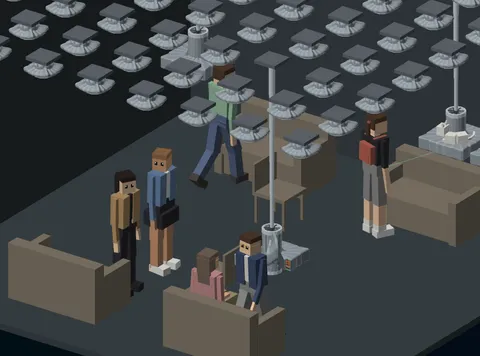
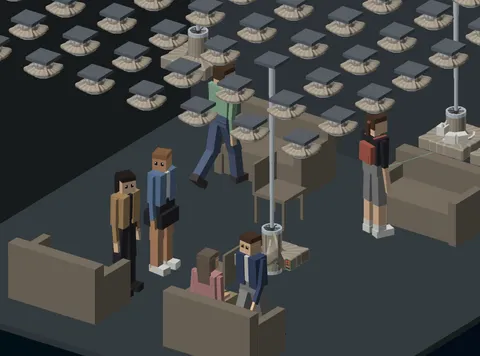
Lab 2-15 蒙皮改暖灰
作者看过钛灰后要暖色。试了香槟、暖灰、古铜、砂岩四档：古铜和香槟饱和度一高就读成木头，
砂岩太亮太抢眼，取暖灰往香槟挪一点（哑光金属感），接缝片仍暗约一成。
/lab 2-15 规格表措辞同步，案例页 2-15 两组分镜重截。

Claude-Session: https://claude.ai/code/session_01RPazAeFLw4UBaBZrTgFsBT

diff --git a/app/(site)/lab/page.tsx b/app/(site)/lab/page.tsx
@@ -449,7 +449,7 @@ export default function LabPage() {
             ['Driver', 'CohabitSim with the case study configuration and square units (the case study chart was run with round units): walk / stand / sit rule · only the bands in the way retract · visitors with bodies and parties · cats can use the floor · cat costs calibrated to Mertens & Turner 1988 · lead to the unit in front of the seat'],
             ['Band shapes', 'Three engine runs (face, edge and corner depth), each baked to 48 forming, 36 retraction and 24 giving-way keyframes; each band picks its frame from its unit’s degree and how far it has retracted. Switching from forming to retraction frames can show a small jump. A band giving way to a person follows the engine’s own straightening retraction from its formed shape and ends flat on the post; its spare cloth is taken up into the top clamp, so all twenty bands of a unit stay attached at the same top and bottom. A semi-transparent membrane spans each pair of neighbouring bands. The padding of each band sits above the box, so below the formed platform only about 0.12 m of band runs down to the bottom end (0.33 m before 2026-10-30), and the band is shortened to 169 nodes (from 202), so the whole unit is about 30% shorter when formed; the box itself is unchanged'],
             ['Mechanism', 'A modelling assumption read from the Blender model, still to be confirmed: a top clamp ring holds the first 5 nodes of all twenty bands and hangs from the ceiling on a five-stage telescopic aluminium hanger (84 mm across at the top, 52 mm at the bottom); a bottom clamp ring holds the last 5 nodes, with a rubber bumper ring underneath; a four-stage telescopic core joins the hubs of the two clamp rings, so as the unit forms the hanger lengthens by as much as the core shortens. Each bond is two pads on the cloth with a locking strut between them, drawn orange once it is fastened (the colour of the bond lines in the other labs). The motor box above the ceiling is not drawn'],
-            ['Skin', 'On by default, can be switched off: an opaque outer skin in matte titanium grey wraps each unit. One panel covers each band and one joint panel spans each gap between neighbouring bands, so the twenty bands read as one closed shell; both ends tuck under the clamp rings. Where bands give way to a person, the joint panels at the edge of the opening part and the inside shows through. With the skin off, the bands, keys and the translucent membranes between bands are shown. How the skin is divided and how its joints open is a modelling assumption'],
+            ['Skin', 'On by default, can be switched off: an opaque outer skin in a matte warm grey wraps each unit. One panel covers each band and one joint panel spans each gap between neighbouring bands, so the twenty bands read as one closed shell; both ends tuck under the clamp rings. Where bands give way to a person, the joint panels at the edge of the opening part and the inside shows through. With the skin off, the bands, keys and the translucent membranes between bands are shown. How the skin is divided and how its joints open is a modelling assumption'],
             ['Scale', 'The Lab 2-7 square ring at its flat setting, scaled by the pitch ratio (0.67) and then by 1.54, so the plan’s platform circle is the square’s incircle. A unit of this size has not been built or solved'],
             ['Figures', 'Blocky 1.70 m people (joint proportions from Drillis & Contini) who walk, stand, sit and turn their heads, dressed in twelve outfits (long or short sleeves, jacket, hoodie, trousers, shorts, skirt, four hairstyles, caps, beanies, glasses, backpacks); blocky cats in five poses and seven coats (cow, tabby, white, black, calico, tuxedo, ginger) that wrap around the post inside the square; outfits and coats are dealt at random each run, no two alike'],
             ['Spaces', 'Live · fixed (even rows formed, leaving out any square whose corners would cut a crossing off from the doors) · empty room, same seats and bodies'],

diff --git a/src/lib/site/lab-page-copy.ts b/src/lib/site/lab-page-copy.ts
@@ -277,7 +277,7 @@ export const LAB_PAGE_COPY: readonly (readonly [string, string])[] = [
   ["Driver", "驱动"],
   ["Band shapes", "带子形状"],
   ["Mechanism", "机构"],
-  ["On by default, can be switched off: an opaque outer skin in matte titanium grey wraps each unit. One panel covers each band and one joint panel spans each gap between neighbouring bands, so the twenty bands read as one closed shell; both ends tuck under the clamp rings. Where bands give way to a person, the joint panels at the edge of the opening part and the inside shows through. With the skin off, the bands, keys and the translucent membranes between bands are shown. How the skin is divided and how its joints open is a modelling assumption", "默认开，可以关掉：一层不透明的哑光钛灰外皮包住每台单元。每条带外侧一片盖片，相邻两条带之间一片接缝片，二十条带读成一个闭合的壳，两头塞进上下夹环。有带子给人让路时，门边上的接缝片张开，从门口看得见里面。关掉蒙皮，显示带子、键与带间半透明的膜。外皮怎么分片、接缝怎么张开是建模假设"],
+  ["On by default, can be switched off: an opaque outer skin in a matte warm grey wraps each unit. One panel covers each band and one joint panel spans each gap between neighbouring bands, so the twenty bands read as one closed shell; both ends tuck under the clamp rings. Where bands give way to a person, the joint panels at the edge of the opening part and the inside shows through. With the skin off, the bands, keys and the translucent membranes between bands are shown. How the skin is divided and how its joints open is a modelling assumption", "默认开，可以关掉：一层不透明的哑光暖灰外皮包住每台单元。每条带外侧一片盖片，相邻两条带之间一片接缝片，二十条带读成一个闭合的壳，两头塞进上下夹环。有带子给人让路时，门边上的接缝片张开，从门口看得见里面。关掉蒙皮，显示带子、键与带间半透明的膜。外皮怎么分片、接缝怎么张开是建模假设"],
   ["A modelling assumption read from the Blender model, still to be confirmed: a top clamp ring holds the first 5 nodes of all twenty bands and hangs from the ceiling on a five-stage telescopic aluminium hanger (84 mm across at the top, 52 mm at the bottom); a bottom clamp ring holds the last 5 nodes, with a rubber bumper ring underneath; a four-stage telescopic core joins the hubs of the two clamp rings, so as the unit forms the hanger lengthens by as much as the core shortens. Each bond is two pads on the cloth with a locking strut between them, drawn orange once it is fastened (the colour of the bond lines in the other labs). The motor box above the ceiling is not drawn", "建模假设，照 Blender 模型的读法，待作者确认：上夹环夹住二十条带的前 5 节，由一根五节伸缩铝吊杆挂在天花上（最上一节直径 84 mm，逐节收到 52 mm）；下夹环夹住末 5 节，底下一圈防撞橡胶；上下夹环的中心套之间是四节伸缩芯，单元成形时吊杆放长多少，芯就缩短多少。每颗键是布上两个键座加一根锁止撑杆，扣上后画成橙色（与其他台架的键线同色）。天花板上面的电机箱不画"],
   ["Figures", "人与猫"],
   ["Spaces", "空间"],

diff --git a/components/lab/CohabitSpaceBench.tsx b/components/lab/CohabitSpaceBench.tsx
@@ -123,14 +123,16 @@ const PAD_LITE: [number, number, number] = [0.2, 0.21, 0.23];
 const ROD_DARK: [number, number, number] = [0.4, 0.16, 0.07];
 const ROD_LITE: [number, number, number] = [0.95, 0.5, 0.28];
 /**
- * 蒙皮的颜色（作者「要有高科技感，也不要特别抢眼」）：低饱和、略偏冷的钛灰（哑光金属）。试过四档（2026-10-30 截图对比）：
- * 石墨（暗）与房间混成一片、单元读不出形；珍珠白最抢眼；带青的深潭色把「颜色只表示项目」的界线弄混。取钛灰——比夹环的拉丝铝
- * 暗一档（夹环与吊杆读得出来），比房间亮得多（单元从暗背景里读得出形）。接缝片比盖片暗约一成，一圈二十道细缝读成分片的外壳，不另画线
+ * 蒙皮的颜色（作者「要有高科技感，也不要特别抢眼」→ 看过钛灰后「暖色吧还是」）：低饱和的暖灰（偏香槟的哑光金属）。
+ * 冷色先试过四档（石墨与房间混成一片、珍珠白最抢眼、带青的深潭色与「颜色只表示项目」混，取了钛灰），暖色再试四档：
+ * 香槟、暖灰、古铜、砂岩——古铜与香槟饱和度一高就读成木头或纸板，砂岩最亮最抢眼；取暖灰往香槟挪一点。
+ * 比夹环的拉丝铝暖、亮度相近（夹环靠冷暖分开），比房间亮得多（单元从暗背景里读得出形），比家具浅一档。
+ * 接缝片比盖片暗约一成，一圈二十道细缝读成分片的外壳，不另画线
  */
-export const SHELL_DARK: [number, number, number] = [0.16, 0.175, 0.19];
-export const SHELL_LITE: [number, number, number] = [0.66, 0.7, 0.73];
-export const SEAM_DARK: [number, number, number] = [0.145, 0.158, 0.172];
-export const SEAM_LITE: [number, number, number] = [0.6, 0.637, 0.665];
+export const SHELL_DARK: [number, number, number] = [0.185, 0.17, 0.15];
+export const SHELL_LITE: [number, number, number] = [0.74, 0.695, 0.625];
+export const SEAM_DARK: [number, number, number] = [0.167, 0.153, 0.135];
+export const SEAM_LITE: [number, number, number] = [0.666, 0.626, 0.563];
 const FURN_DARK: [number, number, number] = [0.16, 0.15, 0.13];
 const FURN_LITE: [number, number, number] = [0.52, 0.48, 0.42];
 /** 事件连线（与平面台架同一套配色：绿 共视 / 紫 共温 / 莲粉 共触 / 墨 交接） */

diff --git a/CLAUDE.md b/CLAUDE.md
@@ -325,7 +325,7 @@
 - **台面下那截布筒去掉 · 两头夹环改轻（2026-10-30，作者看 Blender 的 A 镜头「两头这个机构看起来有点显得笨重」+「每一个单元张开之后下面都会有这样一个冗余的部分……尽量让它小一点，比如每一次机构成型之后它的底面下面直接接这个单元的最底端」+「先改网页里的建模」）**：那截布筒来自 Lab 2-7 方形环的七段谱——配平垫上下各放一半，结构底下挂着隔离贴合 16 + 半份垫 + 尾 15。`skin-square` 加法式新增结构贴底的排法 `squareWrapLow`（`buildSquareUnits(…, 'bottom')`，省略 = 七段谱，Lab 2-7 等逐位不变）：键谱一颗不改，垫整个挪到结构上方，结构底下只接短尾（角 5 节，面 / 边按自由段差额多给一半 ⇒ 三档台面在收缩终点一样高）；Lab 2-15 的 `UNIT_TIERS` 换用它，带子 202 → 169 节（最上面那段贴合留到下限 `LEAD_MIN`）。实测成形形状与锁定逐点相同，台底到钉住端 82 → 29 px（房间尺度 0.33 → 0.12 m），成形后整台短约三成；代价是只在终点对齐，收缩途中三档台面错开到 21 px、全部扣上后 ≤ 7 px。三档结构中心序号不同了，带间的膜改按结构中心对位（`membraneIndex`）。茶几 0.49 m「带子能落到的最低」不再成立，文案去掉这句、数值待作者定（现在能落进资料的 0.40–0.45）。案例页 2-15 两组分镜重截。Blender：上下夹环改成窄内外圈 + 六根辐条 + 中心套，各只夹带子端头 5 节；重新导出、重建 .blend、重渲。守门 +2（全套 1385）。细节 = 项目二_人猫同台lab.md §14.16、项目二_单元建模.md §8。
 - **让路的带不再碎在半空（2026-10-30，作者看整间房的图「按规则被收起来的条更像是破碎的在上面，和下面没有什么关系……下面成型的部分和上面的结构也没有连上」→「先不管 Blender 的渲染，只专注解决网页演示里的这个问题，从源头上找一个优雅的方式」）**：Lab 2-15 每条带原按 f = 单元程度 × (1 − 收回) 取帧、与整台升降共用一套帧——收回到底落进「收在天花下」的升降帧，整条带往自己顶端压成一团、下端脱离钉住端漂在半空；收回途中顶端又比成形的带高出 0.7 m。平面模型 10-07 定的本来是「挡路的带走引擎收直回程 `retractStep(1.0)`」，立体一直没照做。改为 `cohabit-solid` 的 `pickUnitBands`（台架与房间导出共用）：升降段收回不起作用；成形到底时收回的带走**让路段**（烘轨迹时 `SkinUnit.fork` 复制成形态——新加、保留锁定顺序——再收直回程，24 帧，可逆，收到底平贴芯 0.0 px）；成形一半时只退到直带子、不进升降帧；一台所有带**共用一个上夹环**（这台最低的带顶），收回的带多出来的布读成卷进夹环（`clipToReel`），§8 的「顶端收放按带」换成「夹环里每条带一个收布卷轴」，夹持点不动；门两侧不拉膜。守门 +5（任何时刻每条带上下都接着），全套 1390；生产构建无头截图修前碎、修后整；案例页 2-15 两组分镜重截。代价：每档轨迹多 1000 步、关键帧 124 → 148。Blender 渲染（整间房的图）按作者要求暂停，导出脚本已换同一取帧。细节 = 项目二_人猫同台lab.md §14.17、项目二_单元建模.md §9。
 - **网页模型加上机构件（2026-10-30，作者「把你在 Blender 模型里加上的那些让它看起来有物理合理性的结构，也加在网页渲染里的模型里，把网页里这个模型细化一下」）**：Lab 2-15 每台画出上夹环（夹前 5 节、压圈、六根辐条、中心套、法兰）、下夹环（夹末 5 节、防撞橡胶圈）、天花到上夹环的五节伸缩铝吊杆（Ø84 → 52 mm，取代原来的深灰立杆）、两个夹环之间的四节伸缩芯（成形时吊杆放长多少芯就缩短多少）、键（布上两个键座 + 锁止撑杆，扣上为橙色、没扣只剩外套；扣没扣按烘轨迹时逐帧记下的锁定）。件与尺寸照 项目二_单元建模.md §2 与 `build_scene.py`，仍是建模假设待作者确认；天花机箱、螺钉、指示灯不画。几何 = 新模块 `src/lib/space/unit-mechanism.ts`（纯几何）；`cohabit-solid` 加机构 / 键的烘焙与每帧锁定位图；`gl3d` 的 `MeshPlace` 加可选竖向拉伸 `sy`（只给吊杆用，省略即旧行为）。默认场景第 30 s 每帧 588 次绘制、约 49 万三角形，主线程约 1 ms。/lab 2-15 规格表加「机构」一行（中英）；案例页 2-15 两组分镜重截。守门 +10，全套 1400。细节 = 项目二_人猫同台lab.md §14.18、项目二_单元建模.md §10。
-- **单元的蒙皮（2026-10-30，作者「蒙皮和这个绿色的布只是设计阶段的临时状态，设计一个真正的蒙皮作为单元的外表面，可以开可以关，颜色要有高科技感、不要特别抢眼」）**：Lab 2-15 加一层连续、不透明的外皮，默认开、控制条「蒙皮」可关（关掉 = 原来的带子 + 键 + 半透明膜）。每条带外侧一片盖片 + 相邻两条带之间一片接缝片，一圈闭合；剖面 = 带子剖面沿外法向偏 THICK/2 + 0.6（`skin-solid.offsetProfile`），两头各让 2 节塞进上下夹环；让路时只在门边张开（`shellJoins`：一侧让一侧没让才开，两侧都让照连）。颜色哑光钛灰、接缝片暗约一成（四档截图对比：石墨与房间混成一片、珍珠白太抢眼、带青的深潭色与「颜色只表示项目」混），这些都是建模假设待作者确认。开着时静止单元不画带子与键，默认场景每帧 588 → 566 次绘制、约 49 万 → 28 万三角形。顺带查出带间的膜一直跨着两条带本身而不只是缝（半透明看不出），没改、待作者定。/lab 2-15 规格表加「蒙皮」一行；案例页 2-15 两组分镜重截；主页项目二卡片封面仍是旧定帧。守门 +5，全套 1405。细节 = 项目二_人猫同台lab.md §14.19、项目二_单元建模.md §11。
+- **单元的蒙皮（2026-10-30，作者「蒙皮和这个绿色的布只是设计阶段的临时状态，设计一个真正的蒙皮作为单元的外表面，可以开可以关，颜色要有高科技感、不要特别抢眼」）**：Lab 2-15 加一层连续、不透明的外皮，默认开、控制条「蒙皮」可关（关掉 = 原来的带子 + 键 + 半透明膜）。每条带外侧一片盖片 + 相邻两条带之间一片接缝片，一圈闭合；剖面 = 带子剖面沿外法向偏 THICK/2 + 0.6（`skin-solid.offsetProfile`），两头各让 2 节塞进上下夹环；让路时只在门边张开（`shellJoins`：一侧让一侧没让才开，两侧都让照连）。颜色先取冷色钛灰（冷色四档对比：石墨与房间混成一片、珍珠白太抢眼、带青的深潭色与「颜色只表示项目」混），作者看后「暖色吧还是」，改哑光暖灰（暖色四档：古铜 / 香槟饱和一高读成木头，砂岩太抢眼，取暖灰往香槟挪一点），接缝片暗约一成；分片与接缝读法是建模假设待作者确认。开着时静止单元不画带子与键，默认场景每帧 588 → 566 次绘制、约 49 万 → 28 万三角形。顺带查出带间的膜一直跨着两条带本身而不只是缝（半透明看不出），没改、待作者定。/lab 2-15 规格表加「蒙皮」一行；案例页 2-15 两组分镜重截；主页项目二卡片封面仍是旧定帧。守门 +5，全套 1405。细节 = 项目二_人猫同台lab.md §14.19、项目二_单元建模.md §11。
 
 ## Lab 编号对照（2026-09-03 收纳 · 2026-09-13 改按项目编号）
 

diff --git a/项目二_人猫同台lab.md b/项目二_人猫同台lab.md
@@ -863,7 +863,7 @@
 - **几何**：每条带外侧一片**盖片**（跟着这条带走），相邻两条带之间一片**接缝片**（跨过两条带之间那道缝），一圈二十片 + 二十片正好闭合。剖面 = 带子剖面沿外法向偏出 THICK/2 + 0.6（`skin-solid.offsetProfile`；「外」= 折叠体外侧：贴芯段朝离轴方向、台面朝上、端面朝外、底面朝下；切线取 ±2 节，免得凹角里折出小环）。两头各让出 2 节：外皮离芯心 RADIUS + 2.1，上下夹圈内壁在 RADIUS + 2.5，外皮两头正好塞在夹圈外圈里面。
 - **让路**：接缝片只在门的边上张开（一侧让路、一侧没让，`shellJoins`）；两侧都在让路时照连（两条都平贴在芯上，中间是普通的带缝）。首版照搬膜的规则（门两侧一律不连），几条带一起让路时平贴的那截露出一道道竖缝，改了。盖片跟着它那条带平贴到芯上。从门口看得见里面的带子与键。
 - **画法**：开着时，静止态（收起 / 直带子 / 成形）的单元只画外皮（整台烘一份：盖片、接缝片各一份）；正在过渡的单元，没有门的只画外皮，有门的带子与键照画。带间那层半透明的膜只在关掉蒙皮时画。关掉 = 原来的结构视图。
-- **颜色**：哑光钛灰，盖片 dark [0.16, 0.175, 0.19] / lite [0.66, 0.70, 0.73]，接缝片暗约一成——一圈二十道细缝读成分片的外壳，不另画线。四档截图对比后定（同一构建，截图时替换颜色）：石墨（暗）与房间混成一片、单元读不出形；珍珠白最抢眼；带青的深潭色会和「颜色只表示项目」那条规矩混；钛灰比夹环的拉丝铝暗一档（夹环与吊杆读得出来），比房间亮得多。
+- **颜色**（同日两轮）：先取冷色——四档截图对比（同一构建，截图时替换颜色）里石墨（暗）与房间混成一片、珍珠白最抢眼、带青的深潭色会和「颜色只表示项目」那条规矩混，取了钛灰；作者看后「暖色吧还是」，再试暖色四档：香槟、暖灰、古铜、砂岩——古铜和香槟饱和度一高就读成木头或纸板，砂岩最亮最抢眼。定为暖灰往香槟挪一点（哑光金属感）：盖片 dark [0.185, 0.17, 0.15] / lite [0.74, 0.695, 0.625]，接缝片暗约一成——一圈二十道细缝读成分片的外壳，不另画线。比夹环的拉丝铝暖、亮度相近（两者靠冷暖分开），比房间亮得多，比家具浅一档。
 
 **代码**：`skin-solid.offsetProfile`（纯几何）；`cohabit-solid` 加 `SHELL`、`shellCoverVerts` / `shellGoreVerts` / `bakeUnitShell` / `bakeShellCover` / `bakeShellGore` / `shellJoins`；台架 `CohabitSpaceBench` 加「蒙皮」开关（第二行，与运转、时间并列）。/lab 2-15 规格表加「蒙皮」一行（中英）。
 
@@ -873,7 +873,7 @@
 
 **守门**（+5）：剖面偏移方向；三档 × 三个静止态带子两面离外皮都还隔着一段（最近 0.12）；两头塞进夹环（径向在带面与夹圈内壁之间、竖向在夹圈范围里）；接缝片 A 边 = 盖片前剖口、只跨缝、整台片数与三角形数；接缝片只在门的边上张开。
 
-**待作者**：颜色；外皮按带分片、接缝在门边张开这个读法；门口看得见里面绿色的带子要不要也换成中性色；收起在天花下时外皮跟着布束起褶的样子；主页 Work 卡片项目二封面（`public/home/cover-project-ii.webp`）还是没有蒙皮的旧定帧，要不要重截。
+**待作者**：颜色（暖灰）；外皮按带分片、接缝在门边张开这个读法；门口看得见里面绿色的带子要不要也换成中性色；收起在天花下时外皮跟着布束起褶的样子；主页 Work 卡片项目二封面（`public/home/cover-project-ii.webp`）还是没有蒙皮的旧定帧，要不要重截。
 
 ## 15. 正文对照场景 + 数据复核（2026-10-25，作者「自己审核一下，确实应该这么改的话就做」）
 
